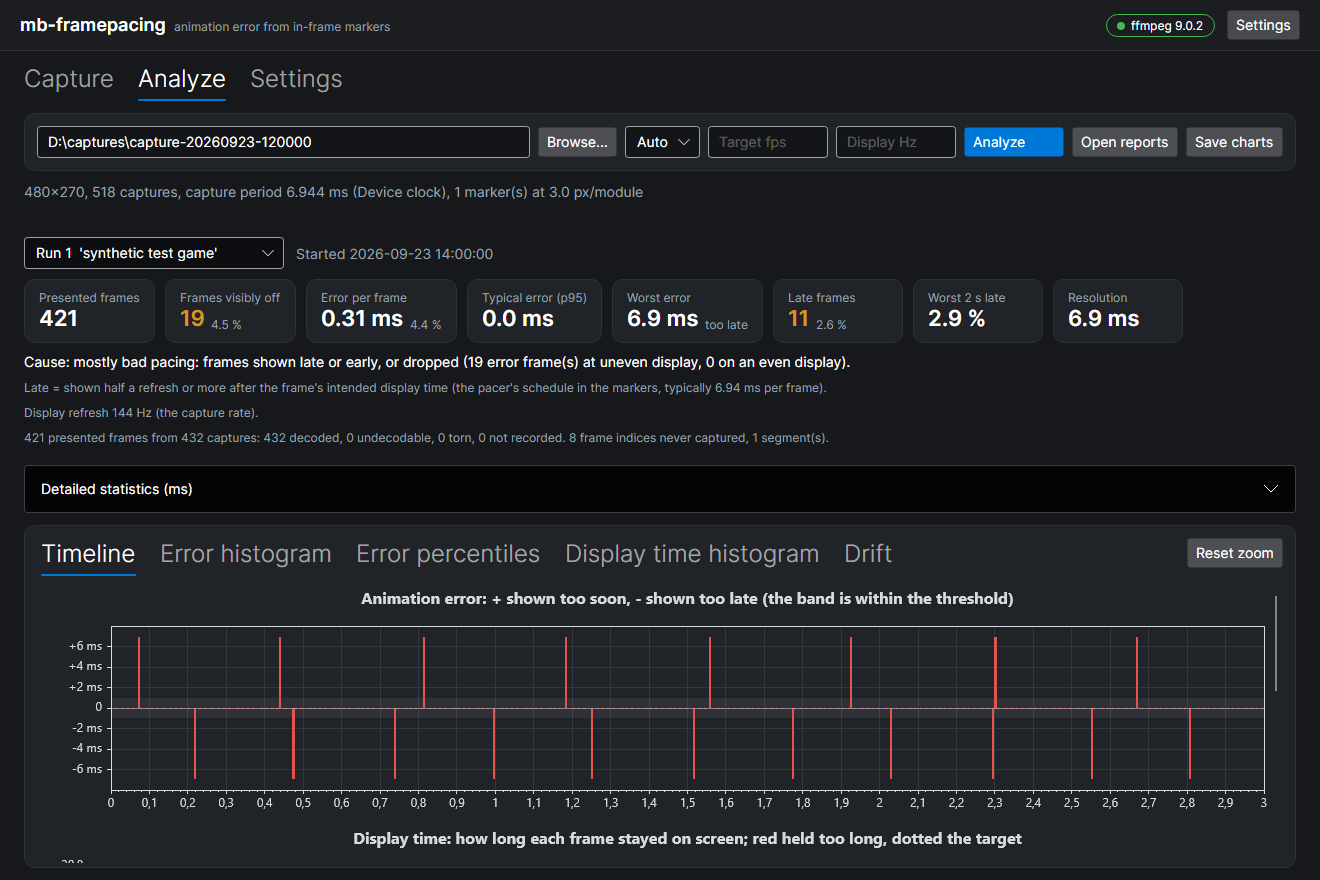
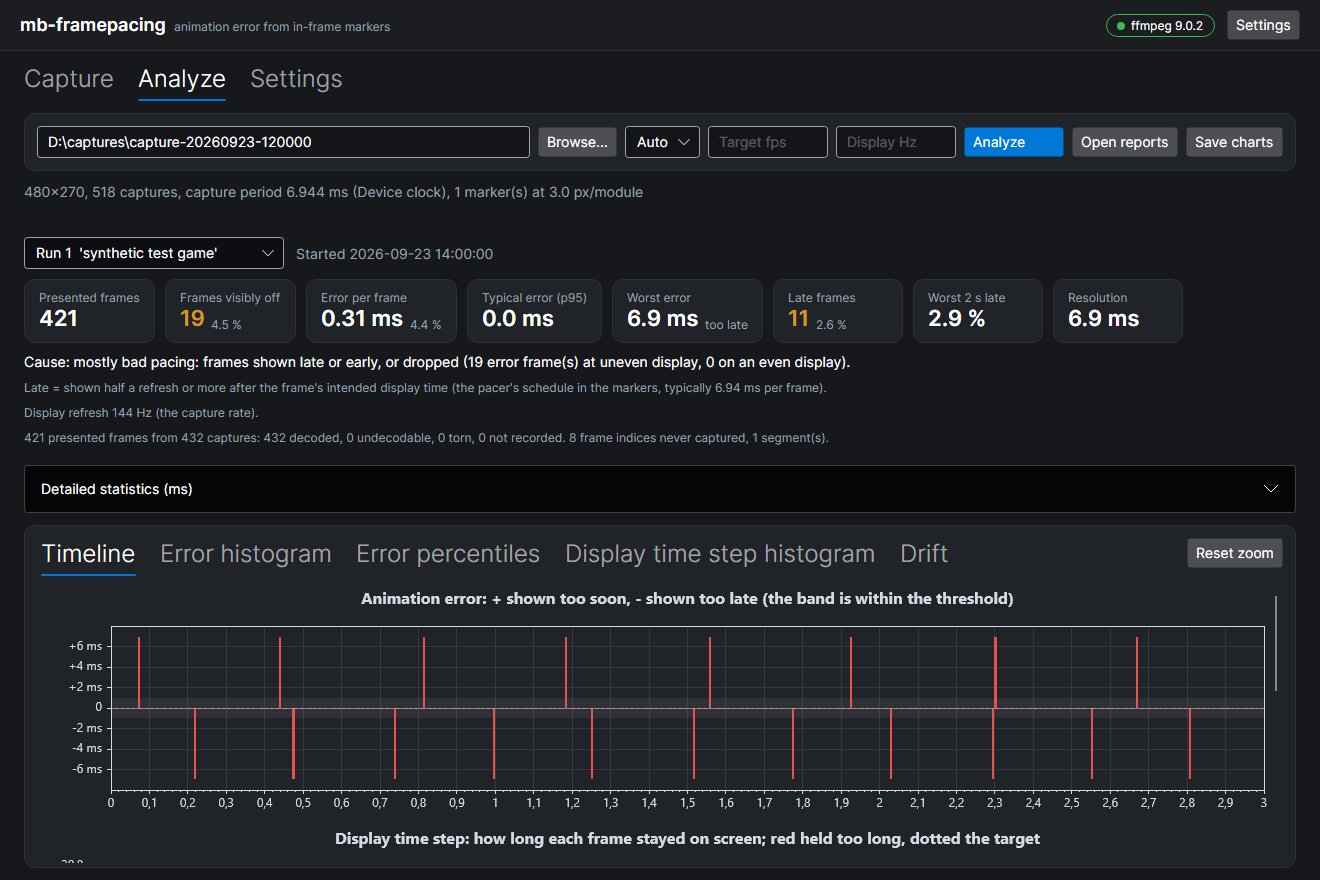
Vocabulary: display time step for how long a frame stayed on screen (after mb-framepacing-explained), display time for the moment it appeared; GUI, CLI, charts and chart files (display-time-step-histogram), docs and doc images

Changed region(s): [[0.2485, 0.9511, 0.7765, 0.9818], [0.528, 0.6136, 0.7144, 0.6443]]

diff --git a/measure/libs/MB.FramePacing.Charts/UnitTest/source/ChartVideoClipTests.cs b/measure/libs/MB.FramePacing.Charts/UnitTest/source/ChartVideoClipTests.cs
@@ -49,8 +49,8 @@ namespace MB.FramePacing.Charts.UnitTest
     }
 
     /// <summary>
-    /// The Timeline: the animation error bar of every frame and the scale, every frame's hold on the display time chart (until the next frame,
-    /// at its display time, held too long when the next frame is late) and every frame's target over it, the 2 s late share at every frame,
+    /// The Timeline: the animation error bar of every frame and the scale, every frame's hold on the display time step chart (until the next
+    /// frame, at its display time step, held too long when the next frame is late) and every frame's target over it, the 2 s late share at every frame,
     /// and the refresh strip's span, refreshes and late flag of every frame.
     /// </summary>
     [TestCaseSource(typeof(VideoClips), nameof(VideoClips.Names))]
@@ -58,10 +58,10 @@ namespace MB.FramePacing.Charts.UnitTest
     {
       var (manifest, report, chart) = Analyze(clip);
       using var error = new Plot();
-      using var displayTime = new Plot();
+      using var displayTimeStep = new Plot();
       using var lateShare = new Plot();
       using var strip = new Plot();
-      RunCharts.Timeline(chart, ChartTheme.Light, error, displayTime, lateShare, strip);
+      RunCharts.Timeline(chart, ChartTheme.Light, error, displayTimeStep, lateShare, strip);
 
       var measured = Enumerable.Range(1, manifest.FrameCount - 1).ToArray(); // frame 0 follows the previous loop, not in the capture
       double Seconds(int i) => (manifest.ShownTicks(i) - manifest.ShownTicks(0)) / (double)TimeSpan.TicksPerSecond;
@@ -77,15 +77,21 @@ namespace MB.FramePacing.Charts.UnitTest
       Assert.That(error.Axes.GetLimits().Bottom, Is.EqualTo(-bars.LimitMs), $"{clip}: centred on zero");
       Assert.That(error.Axes.GetLimits().Top, Is.EqualTo(bars.LimitMs), $"{clip}: centred on zero");
 
-      // Frame i is held until frame i + 1: its display time is the hold's length, and it is held too long when frame i + 1 is late
+      // Frame i is held until frame i + 1: its display time step is the hold's length, and it is held too long when frame i + 1 is late
       var holds = measured.Select(i => i - 1).ToArray();
-      var steps = displayTime.GetPlottables<DisplayTimeStepsPlottable>().Single();
+      var steps = displayTimeStep.GetPlottables<DisplayTimeStepsPlottable>().Single();
       Assert.That(steps.StartTicks, Is.EqualTo(holds.Select(Origin)), $"{clip}: holds start");
       Assert.That(steps.EndTicks, Is.EqualTo(holds.Select(i => Origin(i + 1))), $"{clip}: holds end at the next frame");
-      Assert.That(steps.LevelTicks, Is.EqualTo(holds.Select(i => manifest.DisplayTicks(i + 1))), $"{clip}: display time");
+      Assert.That(steps.LevelTicks, Is.EqualTo(holds.Select(i => manifest.DisplayStepTicks(i + 1))), $"{clip}: display time step");
       Assert.That(steps.HeldTooLong, Is.EqualTo(holds.Select(i => manifest.IsLate(i + 1))), $"{clip}: held too long");
       Assert.That(steps.RefreshMs, Is.EqualTo(Ms(refresh)), $"{clip}: refresh grid");
-      AssertSeries(displayTime, RunCharts.TargetLegend, holds.Select(Seconds), measured.Select(i => Ms(manifest.TargetRefreshes(i) * refresh)), clip);
+      AssertSeries(
+        displayTimeStep,
+        RunCharts.TargetLegend,
+        holds.Select(Seconds),
+        measured.Select(i => Ms(manifest.TargetRefreshes(i) * refresh)),
+        clip
+      );
 
       var all = Enumerable.Range(0, manifest.FrameCount).ToArray();
       var share = lateShare.GetPlottables<Scatter>().Single();
@@ -127,10 +133,10 @@ namespace MB.FramePacing.Charts.UnitTest
       Assert.That(errors.GetPlottables<VerticalLine>().Select(l => l.X), Is.EquivalentTo(new[] { 1.0, -1.0 }), $"{clip}: ±1 ms threshold");
 
       using var display = new Plot();
-      RunCharts.DisplayTimeHistogram(chart, ChartTheme.Light, display);
-      AssertBars(display, measured.Select(manifest.DisplayTicks), clip + ": display time histogram");
-      double median = Analysis.Statistics.FromTicks(measured.Select(manifest.DisplayTicks)).P50;
-      Assert.That(display.GetPlottables<VerticalLine>().Single().X, Is.EqualTo(median), $"{clip}: median display time");
+      RunCharts.DisplayTimeStepHistogram(chart, ChartTheme.Light, display);
+      AssertBars(display, measured.Select(manifest.DisplayStepTicks), clip + ": display time step histogram");
+      double median = Analysis.Statistics.FromTicks(measured.Select(manifest.DisplayStepTicks)).P50;
+      Assert.That(display.GetPlottables<VerticalLine>().Single().X, Is.EqualTo(median), $"{clip}: median display time step");
     }
 
     /// <summary>The percentile curve (|animation error| at every 0.1 percentile) and the drift of every frame.</summary>
@@ -172,7 +178,7 @@ namespace MB.FramePacing.Charts.UnitTest
             "run-1-timeline.png",
             "run-1-error-histogram.png",
             "run-1-error-percentiles.png",
-            "run-1-display-time-histogram.png",
+            "run-1-display-time-step-histogram.png",
             "run-1-drift.png",
           }
         )
@@ -244,7 +250,7 @@ namespace MB.FramePacing.Charts.UnitTest
       return refresh;
     }
 
-    /// <summary>The share of late frames (%) among the frames with a display time first shown in the 2 s up to each frame.</summary>
+    /// <summary>The share of late frames (%) among the frames with a display time step first shown in the 2 s up to each frame.</summary>
     private static double[] ExpectedLateShare(ClipManifest manifest)
     {
       var shares = new double[manifest.FrameCount];

diff --git a/measure/libs/MB.FramePacing.Charts/source/RunCharts.cs b/measure/libs/MB.FramePacing.Charts/source/RunCharts.cs
@@ -2,8 +2,8 @@
 //* File Description
 //* ----------------
 //* The charts of one analysed run, drawn into ScottPlot plots: the GUI passes its controls' plots, the report files new ones. The Timeline
-//* stacks the animation error, the display time, the late share and the refresh strip on one time axis (seconds since the run's first
-//* frame); the distributions are the error and display time histograms, the error percentiles and the drift.
+//* stacks the animation error, the display time step, the late share and the refresh strip on one time axis (seconds since the run's first
+//* frame); the distributions are the error and display time step histograms, the error percentiles and the drift.
 //*
 //* (c) 2026 Mana Battery
 //* SPDX-License-Identifier: LicenseRef-PolyForm-Perimeter-1.0.1
@@ -32,7 +32,7 @@ namespace MB.FramePacing.Charts
     /// time as held steps (an error while the steps stay flat is delta time jitter, an error at a red step is bad pacing), the share of late
     /// frames over the last seconds, and the refresh strip. Late frames and frames held too long are red throughout. All four share the x range.
     /// </summary>
-    public static void Timeline(ChartRun? run, ChartTheme theme, Plot error, Plot displayTime, Plot lateShare, Plot strip)
+    public static void Timeline(ChartRun? run, ChartTheme theme, Plot error, Plot displayTimeStep, Plot lateShare, Plot strip)
     {
       var frames = run?.Run.Frames.ToArray() ?? Array.Empty<PresentedFrame>();
       long origin = frames.Length > 0 ? frames[0].FirstSeenTicks : 0;
@@ -56,9 +56,9 @@ namespace MB.FramePacing.Charts
       }
 
       Reset(
-        displayTime,
+        displayTimeStep,
         theme,
-        "Display time: how long each frame stayed on screen; red held too long, dotted the target",
+        "Display time step: how long each frame stayed on screen; red held too long, dotted the target",
         string.Empty,
         string.Empty
       );
@@ -81,7 +81,7 @@ namespace MB.FramePacing.Charts
         if (targeted.Length > 0)
         {
           var targetMs = targeted.Select(i => Ms(frames[i].TargetTicks!.Value)).ToArray();
-          var target = displayTime.Add.Scatter(targeted.Select(i => Seconds(frames[i - 1])).ToArray(), targetMs);
+          var target = displayTimeStep.Add.Scatter(targeted.Select(i => Seconds(frames[i - 1])).ToArray(), targetMs);
           target.ConnectStyle = ConnectStyle.StepHorizontal;
           target.MarkerSize = 0;
           target.LinePattern = LinePattern.Dotted;
@@ -89,9 +89,9 @@ namespace MB.FramePacing.Charts
           target.LegendText = TargetLegend;
           topMs = Math.Max(topMs, targetMs.Max() + (steps.RefreshMs / 2));
         }
-        displayTime.Add.Plottable(steps);
-        displayTime.Axes.Left.TickGenerator = ManualTicks(DisplayTimeStepsPlottable.Ticks(steps.RefreshMs, topMs));
-        displayTime.Axes.Margins(bottom: 0, top: 0);
+        displayTimeStep.Add.Plottable(steps);
+        displayTimeStep.Axes.Left.TickGenerator = ManualTicks(DisplayTimeStepsPlottable.Ticks(steps.RefreshMs, topMs));
+        displayTimeStep.Axes.Margins(bottom: 0, top: 0);
       }
 
       Reset(
@@ -133,7 +133,7 @@ namespace MB.FramePacing.Charts
 
       double start = frames.Length > 0 ? Seconds(frames[0]) : 0;
       double end = frames.Length > 0 ? Math.Max(start + 0.001, Seconds(frames[^1]) + (run!.CapturePeriodTicks / (double)TimeSpan.TicksPerSecond)) : 1;
-      foreach (var plot in new[] { error, displayTime, lateShare, strip })
+      foreach (var plot in new[] { error, displayTimeStep, lateShare, strip })
       {
         plot.Axes.Left.MinimumSize = TimelineLeftAxisPixels;
         Finish(plot, p => p.Axes.SetLimitsX(start, end));
@@ -189,9 +189,15 @@ namespace MB.FramePacing.Charts
     }
 
     /// <summary>How long frames stayed on screen: steady pacing is one tall bar, stutter shows up as bars at multiples of it.</summary>
-    public static void DisplayTimeHistogram(ChartRun? run, ChartTheme theme, Plot plot)
+    public static void DisplayTimeStepHistogram(ChartRun? run, ChartTheme theme, Plot plot)
     {
-      Reset(plot, theme, "Display time distribution (how long each frame stayed on screen)", "presented frames (log scale)", "display time (ms)");
+      Reset(
+        plot,
+        theme,
+        "Display time step distribution (how long each frame stayed on screen)",
+        "presented frames (log scale)",
+        "display time step (ms)"
+      );
       var histogram = run != null ? RunHistograms.Create(run.Run).DisplayDeltaMs : Histogram.Empty;
       if (histogram.Total > 0)
       {

diff --git a/measure/libs/MB.FramePacing.Analysis/UnitTest/source/VideoClipTests.cs b/measure/libs/MB.FramePacing.Analysis/UnitTest/source/VideoClipTests.cs
@@ -81,7 +81,7 @@ namespace MB.FramePacing.Analysis.UnitTest
     }
 
     /// <summary>
-    /// The analysis of the decoded clip, frame by frame and to the tick: display time, animation time step and error, drift, the late flag and
+    /// The analysis of the decoded clip, frame by frame and to the tick: display time step, animation time step and error, drift, the late flag and
     /// how late, the target, and the pacing and prediction errors against the pacer's schedule in the markers.
     /// </summary>
     [TestCaseSource(typeof(VideoClips), nameof(VideoClips.Names))]
@@ -110,16 +110,16 @@ namespace MB.FramePacing.Analysis.UnitTest
         if (i == 0)
         {
           // The manifest measures its first frame against the last frame of the previous loop, which the capture does not hold
-          Assert.That(frame.DisplayDeltaTicks, Is.Null, where + ": no display time");
+          Assert.That(frame.DisplayDeltaTicks, Is.Null, where + ": no display time step");
           continue;
         }
-        Assert.That(frame.DisplayDeltaTicks, Is.EqualTo(manifest.DisplayTicks(i)), where + ": display time");
+        Assert.That(frame.DisplayDeltaTicks, Is.EqualTo(manifest.DisplayStepTicks(i)), where + ": display time step");
         Assert.That(frame.AnimationDeltaTicks, Is.EqualTo(manifest.AnimationStepTicks(i)), where + ": animation time step");
         Assert.That(frame.AnimationErrorTicks, Is.EqualTo(manifest.AnimationErrorTicks(i)), where + ": animation error");
         Assert.That(frame.Flags.HasFlag(PresentedFrameFlags.Late), Is.EqualTo(manifest.IsLate(i)), where + ": late");
         Assert.That(frame.TargetTicks, Is.EqualTo(manifest.TargetRefreshes(i) * refresh), where + ": target");
         long? intended = manifest.IntendedStepTicks(i);
-        Assert.That(frame.PacingErrorTicks, Is.EqualTo(manifest.DisplayTicks(i) - intended), where + ": pacing error");
+        Assert.That(frame.PacingErrorTicks, Is.EqualTo(manifest.DisplayStepTicks(i) - intended), where + ": pacing error");
         Assert.That(frame.PredictionErrorTicks, Is.EqualTo(manifest.AnimationStepTicks(i) - intended), where + ": prediction error");
       }
       Assert.That(run.Pacing.LateFrames, Is.EqualTo(Enumerable.Range(1, manifest.FrameCount - 1).Count(manifest.IsLate)), $"{clip}: late frames");
@@ -128,7 +128,7 @@ namespace MB.FramePacing.Analysis.UnitTest
       var measured = Enumerable.Range(1, manifest.FrameCount - 1).ToArray();
       long absolute = measured.Sum(i => Math.Abs(manifest.AnimationErrorTicks(i)));
       double errorPerFrameMs = absolute / (double)measured.Length / TimeSpan.TicksPerMillisecond;
-      double percentError = absolute * 100.0 / measured.Sum(manifest.DisplayTicks);
+      double percentError = absolute * 100.0 / measured.Sum(manifest.DisplayStepTicks);
       Assert.That(run.Statistics.ErrorPerFrameMs, Is.EqualTo(errorPerFrameMs).Within(1e-9), $"{clip}: error per frame");
       Assert.That(run.Statistics.PercentError, Is.EqualTo(percentError).Within(1e-9), $"{clip}: percent error");
       TestContext.Out.WriteLine($"{clip}: error per frame {errorPerFrameMs:0.00} ms, percent error {percentError:0.0} %");

diff --git a/measure/libs/MB.FramePacing.Analysis/source/PacingAnalyzer.cs b/measure/libs/MB.FramePacing.Analysis/source/PacingAnalyzer.cs
@@ -25,10 +25,10 @@ namespace MB.FramePacing.Analysis
 
     /// <summary>
     /// Measures the frames (replacing them in <paramref name="frames"/> with their targets, errors and <see cref="PresentedFrameFlags.Late"/>)
-    /// and returns the run's pacing. Display times are whole refreshes, so everything is compared with half a refresh of slack.
+    /// and returns the run's pacing. Display time steps are whole refreshes, so everything is compared with half a refresh of slack.
     /// <list type="bullet">
     /// <item>
-    /// With intended display times (<see cref="PacingSource.Schedule"/>) every frame gets a pacing error (display step minus intended step) and a
+    /// With intended display times (<see cref="PacingSource.Schedule"/>) every frame gets a pacing error (display time step minus intended step) and a
     /// prediction error (animation step minus intended step); the animation error is prediction minus pacing error. A frame is late when it is
     /// shown at least half a refresh after its intended time, measured from the run's on-time frames: that also finds frames that stay late
     /// after a hitch.
@@ -157,7 +157,7 @@ namespace MB.FramePacing.Analysis
     /// <item>With the pacer's schedule the animation error splits exactly: the frame counts for the larger of its pacing and prediction error.</item>
     /// <item>
     /// Otherwise (no schedule, or a frame without a split) it is bad pacing when this or the previous frame was shown off its target (or
-    /// after skipped frames, or torn), else delta time jitter. A display changes frames on refreshes, so a display time counts as off its
+    /// after skipped frames, or torn), else delta time jitter. A display changes frames on refreshes, so a display time step counts as off its
     /// target from half a refresh on, whatever captured it.
     /// </item>
     /// </list>

diff --git a/measure/libs/MB.FramePacing.Charts/source/DisplayTimeStepsPlottable.cs b/measure/libs/MB.FramePacing.Charts/source/DisplayTimeStepsPlottable.cs
@@ -1,8 +1,8 @@
 //****************************************************************************************************************************************************
 //* File Description
 //* ----------------
-//* The display time as held steps (after mb-framepacing-explained's frame chart): each frame is a horizontal step from when it was first seen
-//* until the next frame, at how long it stayed on screen (the next frame's display time), in green, or in red when it was held too long
+//* The display time steps as held levels (after mb-framepacing-explained's frame chart): each frame is a horizontal step from when it was first seen
+//* until the next frame, at how long it stayed on screen (the next frame's display time step), in green, or in red when it was held too long
 //* because the next frame was late. Faint risers join the steps where the level changes. Zoomed out, when holds get narrower than a pixel or
 //* two, each pixel column draws the range of its holds, red if any of them was held too long. The scale covers every hold, unless a few are
 //* far longer than the rest (a hitch): then it covers the 99th percentile, and the holds it cuts off get a mark at the top with their
@@ -48,7 +48,7 @@ namespace MB.FramePacing.Charts
     /// <param name="refreshTicks">The display's refresh period: the grid and the scale.</param>
     public DisplayTimeStepsPlottable(IReadOnlyList<PresentedFrame> frames, long originTicks, long refreshTicks)
     {
-      // A frame's hold is known from the next frame of its segment: its display time and whether it came late
+      // A frame's hold is known from the next frame of its segment: its display time step and whether it came late
       for (int i = 0; i + 1 < frames.Count; ++i)
       {
         var next = frames[i + 1];

diff --git a/measure/app/FramePacing.Gui/source/Views/AnalysisView.axaml.cs b/measure/app/FramePacing.Gui/source/Views/AnalysisView.axaml.cs
@@ -35,10 +35,10 @@ namespace MB.FramePacing.Gui.Views
       ActualThemeVariantChanged += (_, _) => Redraw();
     }
 
-    private AvaPlot[] TimelinePlots => new[] { ErrorPlot, DisplayTimePlot, LateSharePlot, RefreshStripPlot };
+    private AvaPlot[] TimelinePlots => new[] { ErrorPlot, DisplayTimeStepPlot, LateSharePlot, RefreshStripPlot };
 
     private AvaPlot[] AllPlots =>
-      TimelinePlots.Concat(new[] { ErrorHistogramPlot, ErrorPercentilePlot, DisplayTimeHistogramPlot, DriftPlot }).ToArray();
+      TimelinePlots.Concat(new[] { ErrorHistogramPlot, ErrorPercentilePlot, DisplayTimeStepHistogramPlot, DriftPlot }).ToArray();
 
     /// <summary>Double-clicking a chart resets the zoom (instead of ScottPlot's benchmark overlay), like the Reset zoom button.</summary>
     private void ResetOnDoubleClick()
@@ -84,10 +84,10 @@ namespace MB.FramePacing.Gui.Views
     {
       var run = m_viewModel?.SelectedRun?.Chart;
       var theme = ActualThemeVariant == ThemeVariant.Dark ? ChartTheme.Dark : ChartTheme.Light;
-      RunCharts.Timeline(run, theme, ErrorPlot.Plot, DisplayTimePlot.Plot, LateSharePlot.Plot, RefreshStripPlot.Plot);
+      RunCharts.Timeline(run, theme, ErrorPlot.Plot, DisplayTimeStepPlot.Plot, LateSharePlot.Plot, RefreshStripPlot.Plot);
       RunCharts.ErrorHistogram(run, theme, ErrorHistogramPlot.Plot);
       RunCharts.ErrorPercentiles(run, theme, ErrorPercentilePlot.Plot);
-      RunCharts.DisplayTimeHistogram(run, theme, DisplayTimeHistogramPlot.Plot);
+      RunCharts.DisplayTimeStepHistogram(run, theme, DisplayTimeStepHistogramPlot.Plot);
       RunCharts.Drift(run, theme, DriftPlot.Plot);
       foreach (var plot in AllPlots)
         plot.Refresh();

diff --git a/measure/libs/MB.FramePacing.Analysis/source/RunStatistics.cs b/measure/libs/MB.FramePacing.Analysis/source/RunStatistics.cs
@@ -25,17 +25,17 @@ namespace MB.FramePacing.Analysis
     long FramesWithAnimationError,
     // Gamers Nexus's "error per frame": the mean |animation error| of the frames with one
     double ErrorPerFrameMs,
-    // Gamers Nexus's "percent error": the sum of |animation error| as a percentage of the time those frames measure (their display times)
+    // Gamers Nexus's "percent error": the sum of |animation error| as a percentage of the time those frames measure (their display time steps)
     double PercentError
   )
   {
-    /// <summary><see cref="ErrorPerFrameMs"/> and <see cref="PercentError"/> of frames' animation errors and display times, in ticks.</summary>
-    public static (double ErrorPerFrameMs, double PercentError) ErrorSummary(IReadOnlyCollection<(long ErrorTicks, long DisplayTicks)> frames)
+    /// <summary><see cref="ErrorPerFrameMs"/> and <see cref="PercentError"/> of frames' animation errors and display time steps, in ticks.</summary>
+    public static (double ErrorPerFrameMs, double PercentError) ErrorSummary(IReadOnlyCollection<(long ErrorTicks, long DisplayStepTicks)> frames)
     {
       if (frames.Count == 0)
         return (0, 0);
       long absolute = frames.Sum(f => Math.Abs(f.ErrorTicks));
-      long display = frames.Sum(f => f.DisplayTicks);
+      long display = frames.Sum(f => f.DisplayStepTicks);
       return (absolute / (double)frames.Count / TimeSpan.TicksPerMillisecond, display > 0 ? absolute * 100.0 / display : 0);
     }
   }

diff --git a/measure/libs/MB.FramePacing.Analysis/UnitTest/source/ClipManifest.cs b/measure/libs/MB.FramePacing.Analysis/UnitTest/source/ClipManifest.cs
@@ -2,7 +2,7 @@
 //* File Description
 //* ----------------
 //* What a test clip's manifest (test-data/videos/<clip>/manifest.json, written by mb-framepacing-explained) says, and the exact values that
-//* follow from it: every video frame's marker, and per frame of the clip its display time, animation time step, animation error, lateness,
+//* follow from it: every video frame's marker, and per frame of the clip its display time step, animation time step, animation error, lateness,
 //* target and drift, all in whole ticks. The VideoClip tests of the analysis and of the charts compare with it.
 //*
 //* (c) 2026 Mana Battery
@@ -94,11 +94,11 @@ namespace MB.FramePacing.Analysis.UnitTest
     public long ShownTicks(int frame) => VideoFrameTicks(Refresh[frame]);
 
     /// <summary>How long the previous frame was on screen (frame 1 on: frame 0 follows the previous loop, which the capture does not hold).</summary>
-    public long DisplayTicks(int frame) => ShownTicks(frame) - ShownTicks(frame - 1);
+    public long DisplayStepTicks(int frame) => ShownTicks(frame) - ShownTicks(frame - 1);
 
     public long AnimationStepTicks(int frame) => AnimationTicks[frame] - AnimationTicks[frame - 1];
 
-    public long AnimationErrorTicks(int frame) => AnimationStepTicks(frame) - DisplayTicks(frame);
+    public long AnimationErrorTicks(int frame) => AnimationStepTicks(frame) - DisplayStepTicks(frame);
 
     public bool IsLate(int frame) => Late[frame] > 0;
 

diff --git a/measure/libs/MB.FramePacing.Analysis/source/RunPacing.cs b/measure/libs/MB.FramePacing.Analysis/source/RunPacing.cs
@@ -25,7 +25,7 @@ namespace MB.FramePacing.Analysis
   /// Presented frames shown late: at least half a refresh after their intended time with a schedule, otherwise at least one refresh later than
   /// their target frame time after the previous frame.
   /// </param>
-  /// <param name="LateShare">Late frames as a share of the presented frames with a display time (0..1).</param>
+  /// <param name="LateShare">Late frames as a share of the presented frames with a display time step (0..1).</param>
   /// <param name="WorstLateShare">The highest share of late frames in any <see cref="LateShare.WindowSeconds"/> window (0..1).</param>
   /// <param name="ErrorFramesWithUnevenDisplay">
   /// Frames with animation error where this or the previous frame was shown late or early, or that follow skipped frames: bad pacing.
@@ -47,7 +47,7 @@ namespace MB.FramePacing.Analysis
     double? ExpectedRefreshHz = null
   )
   {
-    /// <summary>With a schedule: every frame's display step minus its intended step (ms). Late or early frames, as the pacer sees them.</summary>
+    /// <summary>With a schedule: every frame's display time step minus its intended step (ms). Late or early frames, as the pacer sees them.</summary>
     public Statistics? PacingErrorMs { get; init; }
 
     /// <summary>

diff --git a/tools/camera_rate_table.py b/tools/camera_rate_table.py
@@ -3,7 +3,7 @@
 """Measure how precise camera capture is at each camera frame rate, on the simulated camera (VERY EXPERIMENTAL camera support).
 
 Runs `mb-framepacing selftest --camera` once per camera rate against a simulated display and prints a Markdown table: whether every
-presented frame was found and how far the measured display times are from the simulation. The simulated camera uses a fixed seed, so
+presented frame was found and how far the measured display time steps are from the simulation. The simulated camera uses a fixed seed, so
 the numbers are the same on every run. They come from the simulation only, not from real cameras.
 
     python tools/camera_rate_table.py                      # 60 Hz display, the default rates
@@ -29,7 +29,7 @@ END = "<!-- /camera-rate-table -->"
 DEFAULT_RATES = "100,130,250,330,500,1000"
 
 ERROR_LINE = re.compile(
-    r"Display time error against the simulation: mean (?P<mean>[\d.]+) ms, p95 (?P<p95>[\d.]+) ms, max (?P<max>[\d.]+) ms "
+    r"Display time step error against the simulation: mean (?P<mean>[\d.]+) ms, p95 (?P<p95>[\d.]+) ms, max (?P<max>[\d.]+) ms "
     + r"\(camera period (?P<period>[\d.]+) ms, (?P<frames>\d+) frames\)"
 )
 

diff --git a/measure/libs/MB.FramePacing.Charts/source/ChartFiles.cs b/measure/libs/MB.FramePacing.Charts/source/ChartFiles.cs
@@ -30,7 +30,7 @@ namespace MB.FramePacing.Charts
 
     /// <summary>
     /// Writes each run's charts into the report directory, named like its frames CSV (<see cref="CaptureAnalyzer.RunFilePrefix"/>):
-    /// -timeline.png (under the run's headline band), -error-histogram.png, -error-percentiles.png, -display-time-histogram.png and -drift.png. Returns the files written.
+    /// -timeline.png (under the run's headline band), -error-histogram.png, -error-percentiles.png, -display-time-step-histogram.png and -drift.png. Returns the files written.
     /// </summary>
     public static IReadOnlyList<string> Write(AnalysisReport report, ChartTheme theme)
     {
@@ -68,7 +68,7 @@ namespace MB.FramePacing.Charts
         {
           ("error-histogram", RunCharts.ErrorHistogram),
           ("error-percentiles", RunCharts.ErrorPercentiles),
-          ("display-time-histogram", RunCharts.DisplayTimeHistogram),
+          ("display-time-step-histogram", RunCharts.DisplayTimeStepHistogram),
           ("drift", RunCharts.Drift),
         }
       )

diff --git a/measure/libs/MB.FramePacing.Analysis/source/PresentedFrame.cs b/measure/libs/MB.FramePacing.Analysis/source/PresentedFrame.cs
@@ -17,7 +17,7 @@ namespace MB.FramePacing.Analysis
   /// <param name="IntendedDisplayTicks">From the marker: when the pacer intended the frame to be shown (its steady clock), 0 = unknown.</param>
   /// <param name="MarkerTargetFrameTicks">From the marker: the pacer's target frame time, 0 = unknown.</param>
   /// <param name="TargetTicks">The frame time this frame is measured against, in whole refreshes (<see cref="RunPacing.Source"/>).</param>
-  /// <param name="PacingErrorTicks">With a schedule: the display step minus the intended step.</param>
+  /// <param name="PacingErrorTicks">With a schedule: the display time step minus the intended step.</param>
   /// <param name="PredictionErrorTicks">With a schedule: the animation time step minus the intended step.</param>
   /// <param name="LatenessTicks">With a schedule: how long after its intended time the frame appeared, relative to the run's on-time frames.</param>
   public sealed record PresentedFrame(
